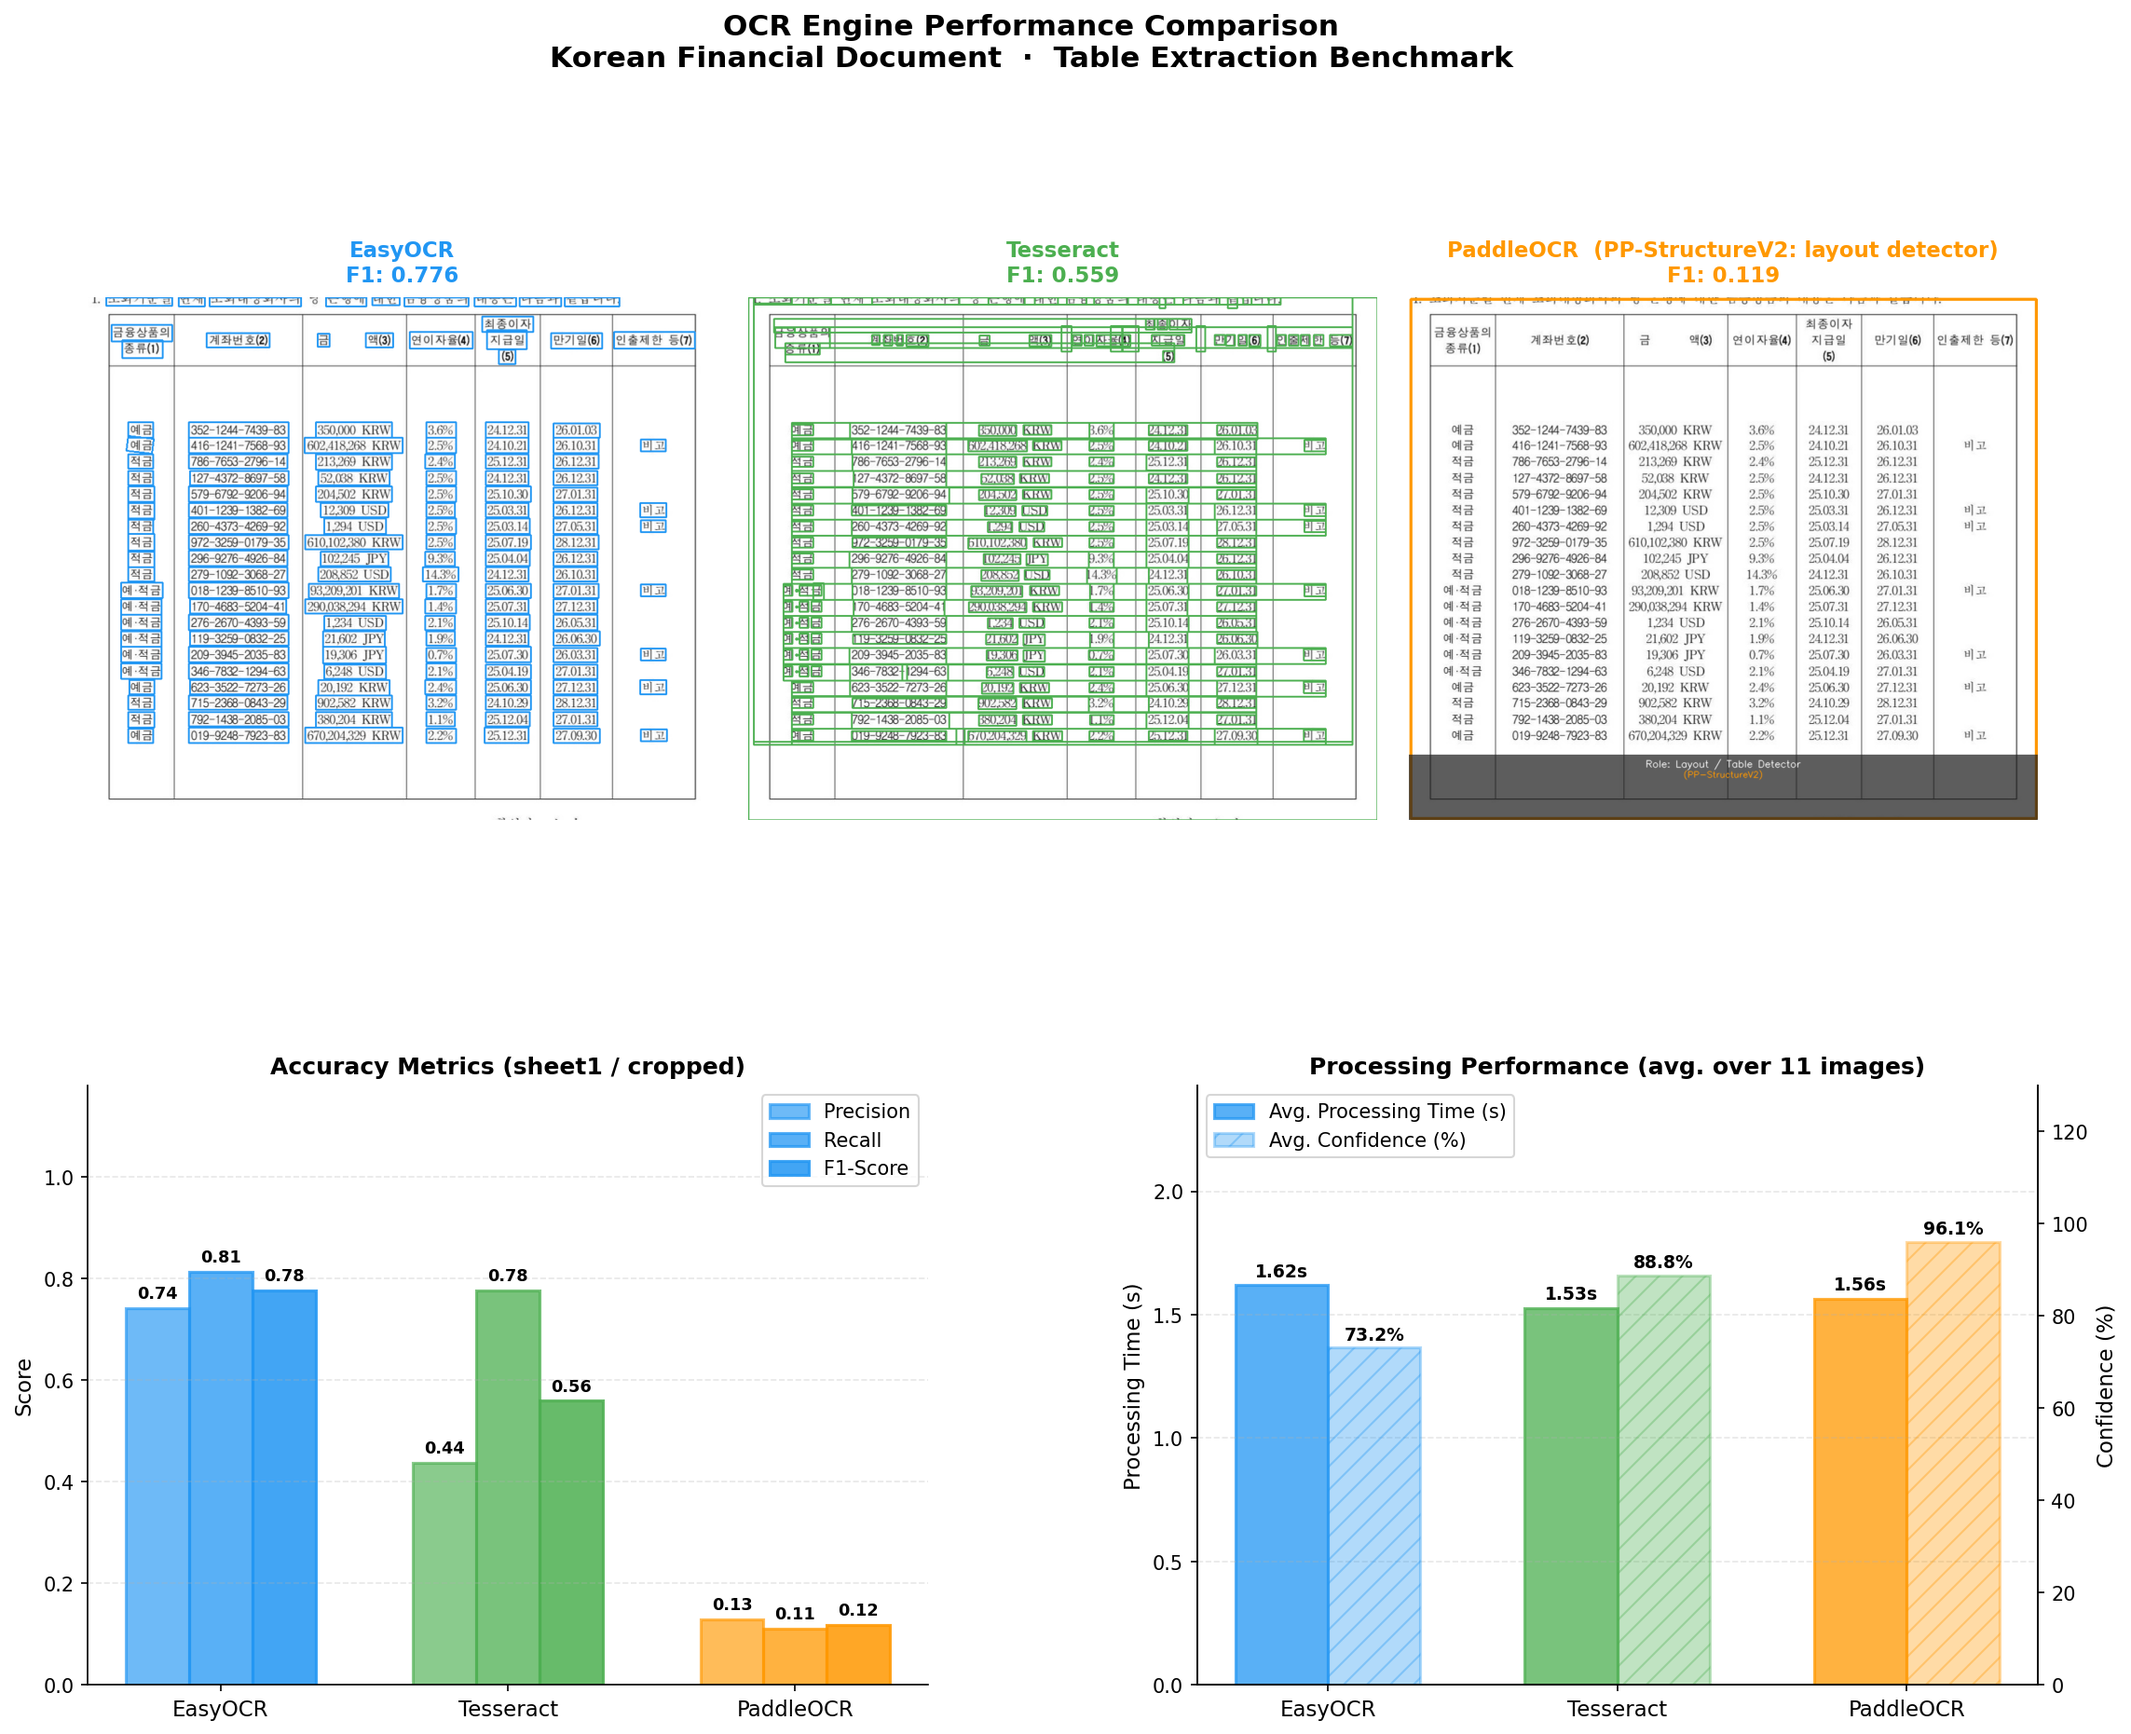
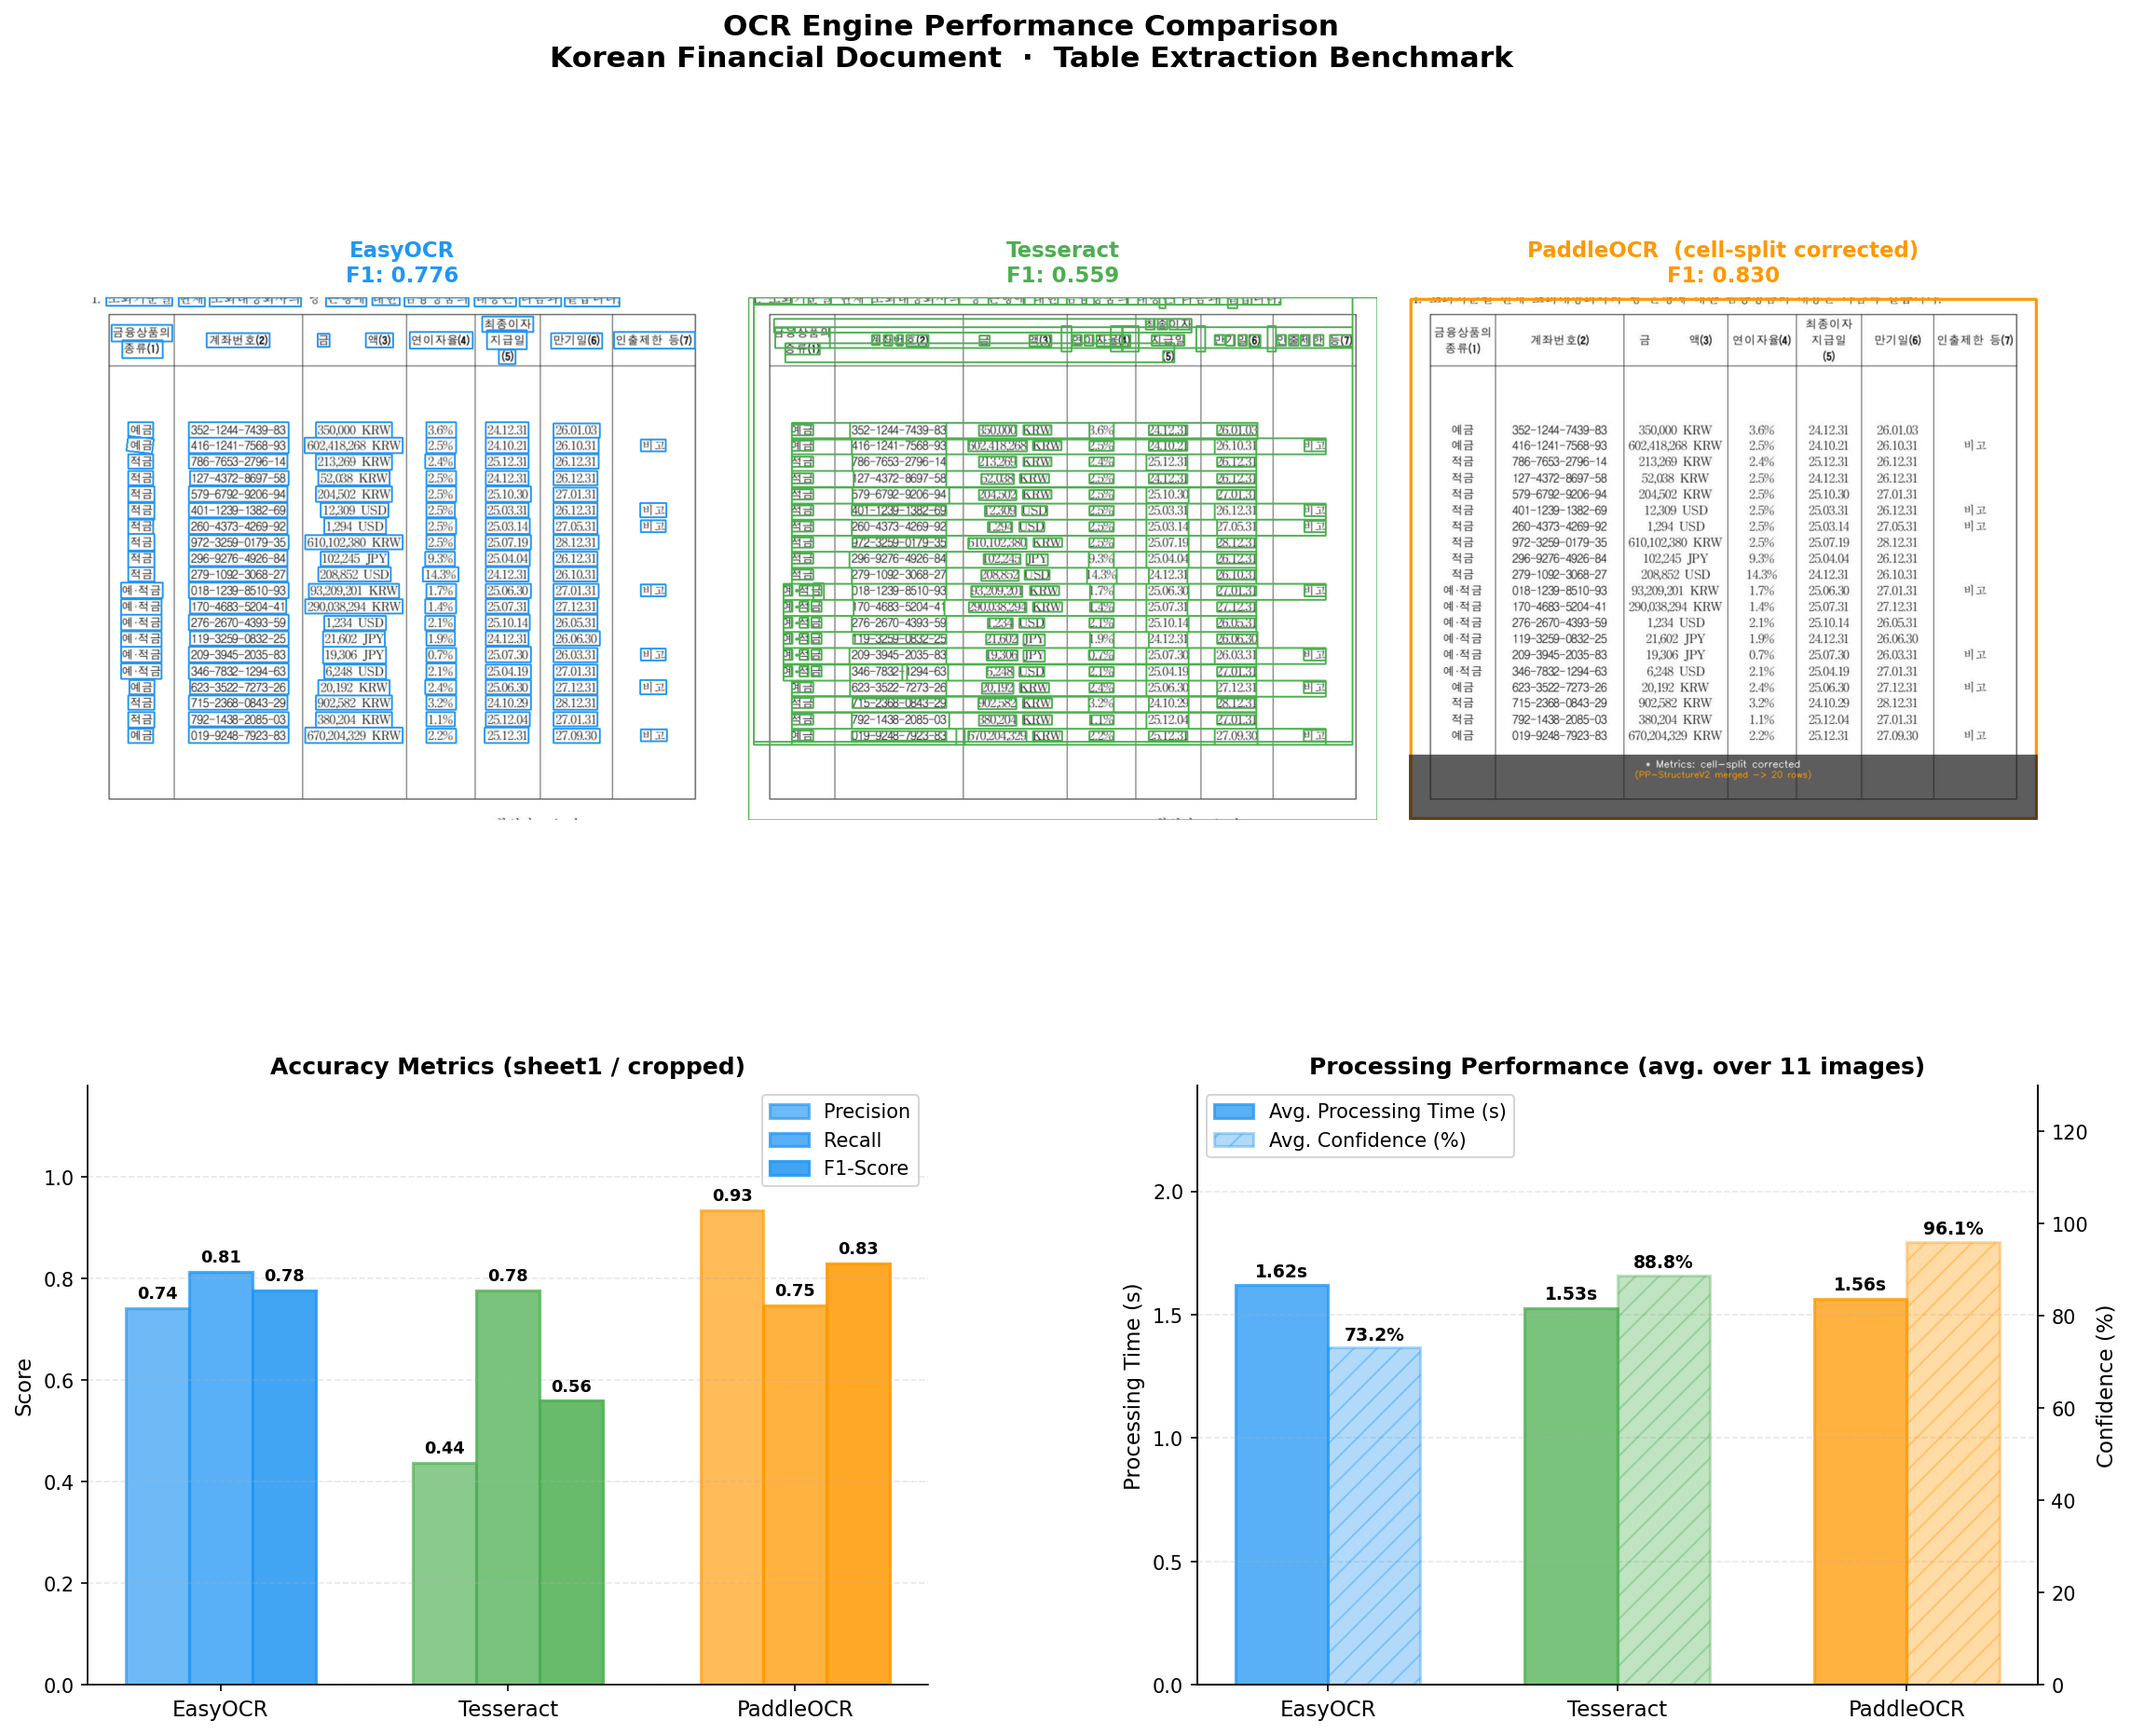
feat: 비교 이미지를 병합 셀 분리 후 재산출 지표로 갱신
- PRED_CSVS[PaddleOCR]: paddle_sheet1_crop.csv → paddle_sheet1_fixed.csv
- FALLBACK_METRICS[PaddleOCR]: 0.119 → 0.830 (분리 후 재산출 결과 반영)
- PaddleOCR 패널 배너: "layout detector" → "cell-split corrected"
- 이미지 차트 결과
    EasyOCR  : F1=0.776
    Tesseract: F1=0.559
    PaddleOCR: F1=0.830 (병합 셀 분리 후 재산출)

https://claude.ai/code/session_015BH6tqGNYbKDEW5yET8iHP

Changed region(s): [[0.3105, 0.6857, 0.4346, 0.9661], [0.683, 0.1247, 0.9314, 0.1558], [0.7761, 0.4363, 0.8382, 0.4675]]

diff --git a/scripts/generate_comparison_image.py b/scripts/generate_comparison_image.py
@@ -38,7 +38,9 @@ TIMING_CSV   = ROOT / 'output/comparison/comparison_3_frameworks.csv'
 PRED_CSVS = {
     'EasyOCR':   ROOT / 'output/easyocr_results/cropped/easy_sheet1_crop.csv',
     'Tesseract': ROOT / 'output/tesseract_results/cropped/tess_sheet1_crop.csv',
-    'PaddleOCR': ROOT / 'output/paddleocr_results/cropped/paddle_sheet1_crop.csv',
+    # PP-StructureV2가 모든 행을 1행으로 병합한 원본 대신,
+    # 열별 정규식으로 복원한 fixed CSV를 사용 (reanalyze_paddle.py 참조)
+    'PaddleOCR': ROOT / 'output/paddleocr_results/fixed/paddle_sheet1_fixed.csv',
 }
 
 ENGINE_COLORS = {
@@ -56,11 +58,12 @@ ENGINE_COLORS_BGR = {
 
 OUTPUT_PATH = ROOT / 'output/comparison/ocr_comparison_image.png'
 
-# Fallback metrics from Walkthrough.md (used if CSV computation fails)
+# Fallback metrics (used if CSV computation fails)
+# PaddleOCR값은 reanalyze_paddle.py로 산출한 병합 셀 분리 후 재산출 결과
 FALLBACK_METRICS = {
-    'EasyOCR':   {'precision': 0.777, 'recall': 0.775, 'f1': 0.776},
-    'Tesseract': {'precision': 0.510, 'recall': 0.620, 'f1': 0.559},
-    'PaddleOCR': {'precision': 0.130, 'recall': 0.110, 'f1': 0.119},
+    'EasyOCR':   {'precision': 0.741, 'recall': 0.813, 'f1': 0.776},
+    'Tesseract': {'precision': 0.437, 'recall': 0.776, 'f1': 0.559},
+    'PaddleOCR': {'precision': 0.935, 'recall': 0.746, 'f1': 0.830},
 }
 
 
@@ -197,8 +200,8 @@ def get_paddleocr_bboxes(img_path):
     alpha = 0.72
     cv2.addWeighted(overlay, alpha, img, 1 - alpha, 0, img)
 
-    label1 = "Role: Layout / Table Detector"
-    label2 = "(PP-StructureV2)"
+    label1 = "* Metrics: cell-split corrected"
+    label2 = "(PP-StructureV2 merged -> 20 rows)"
     font = cv2.FONT_HERSHEY_SIMPLEX
     fs1, fs2 = 0.55, 0.48
     th1, th2 = 1, 1
@@ -231,7 +234,7 @@ def render_figure(metrics, times, confs, engine_images):
 
     # ── Top row: bbox overlay images ──────────────────────────────────────────
     paddle_role_note = {
-        'PaddleOCR': '(PP-StructureV2: layout detector)',
+        'PaddleOCR': '(cell-split corrected)',
     }
 
     for i, name in enumerate(engines):
